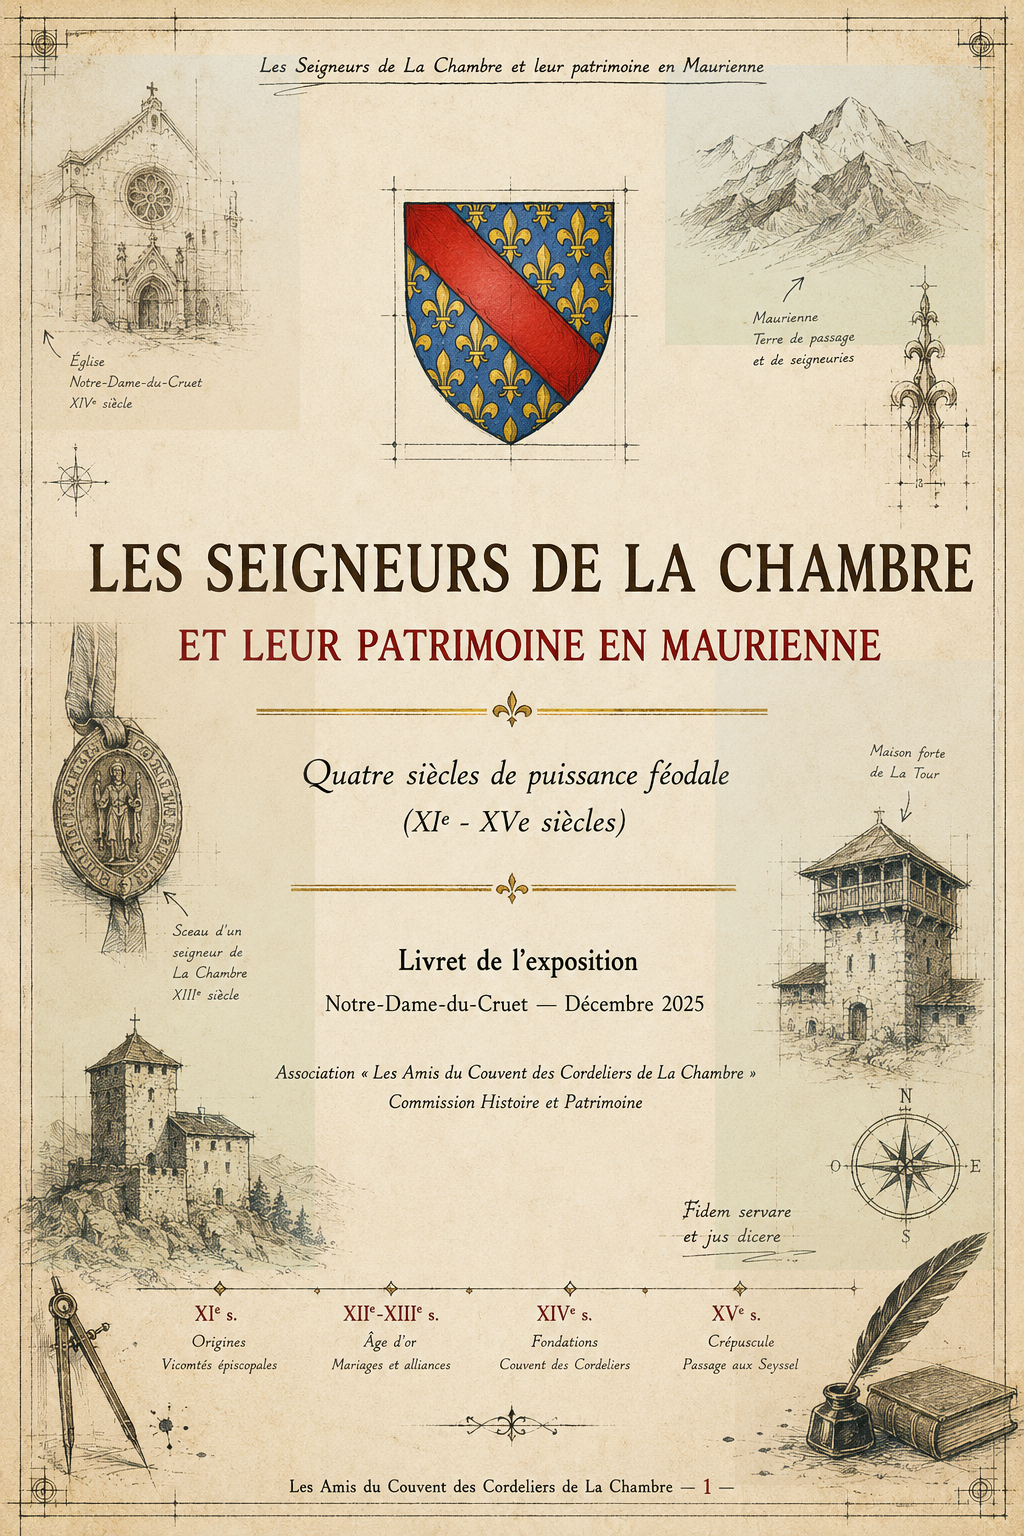
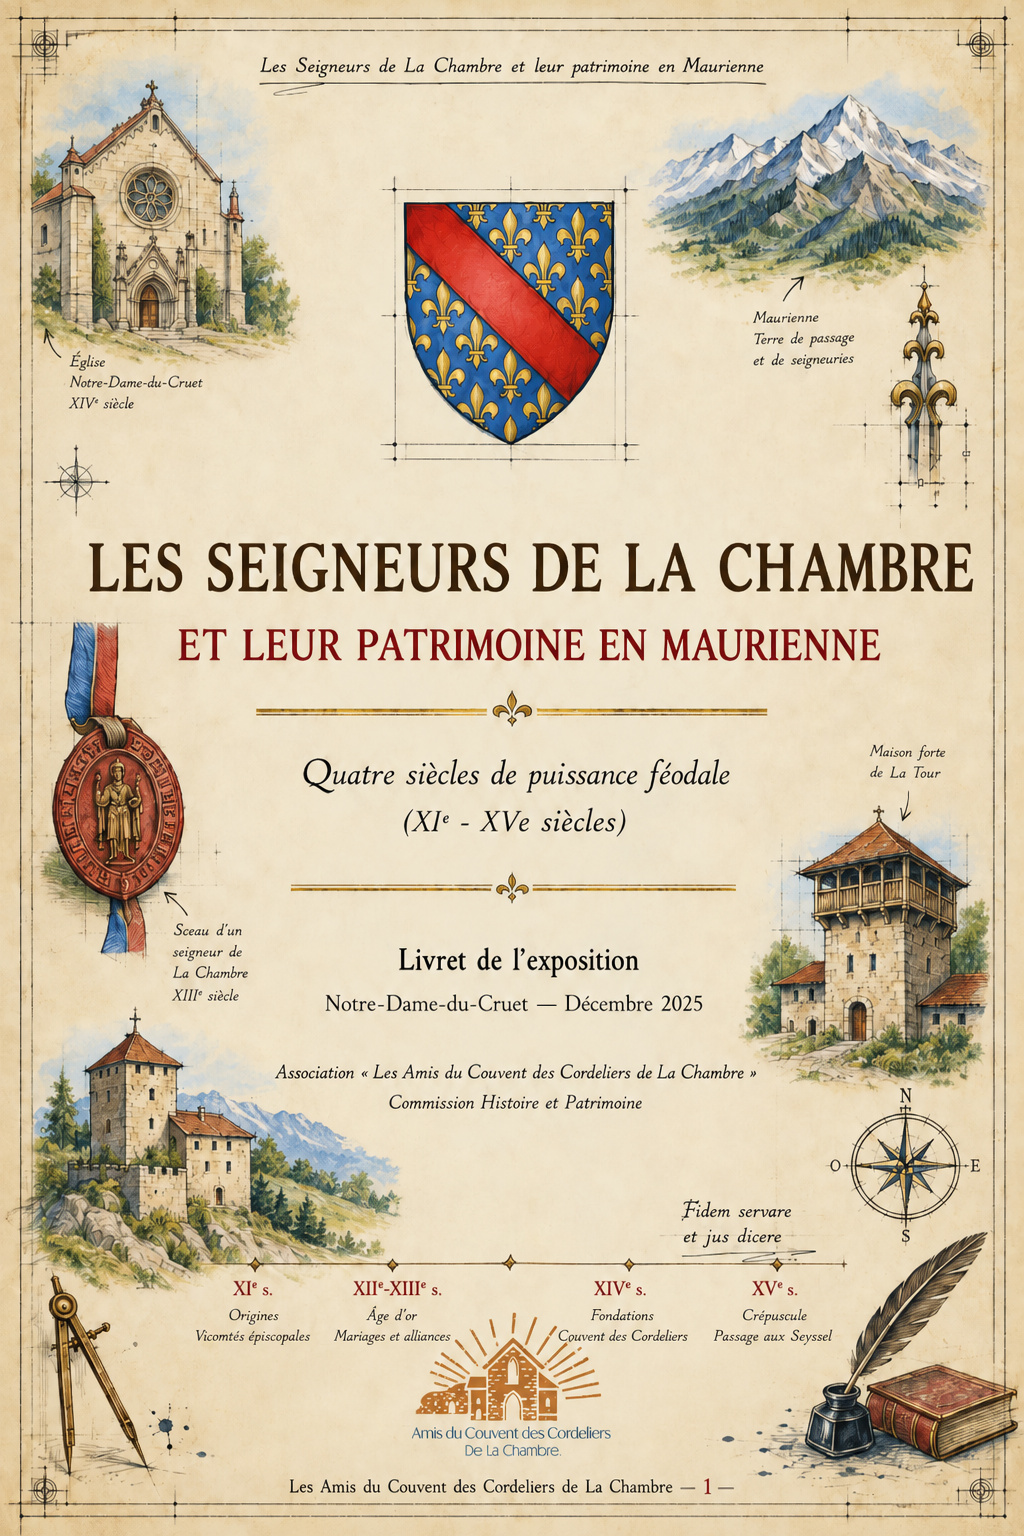
v9 fixed

diff --git a/UPDATE_NOTES_2026-09-05_v14.md b/UPDATE_NOTES_2026-09-05_v14.md
@@ -1,0 +1,5 @@
+# Update Notes v14
+
+- Intégration de la nouvelle couverture colorisée avec logo de l'association.
+- Remplacement de `assets/page-01.jpg` par la couverture validée.
+- Conservation du reste de l'archive tel quel.
